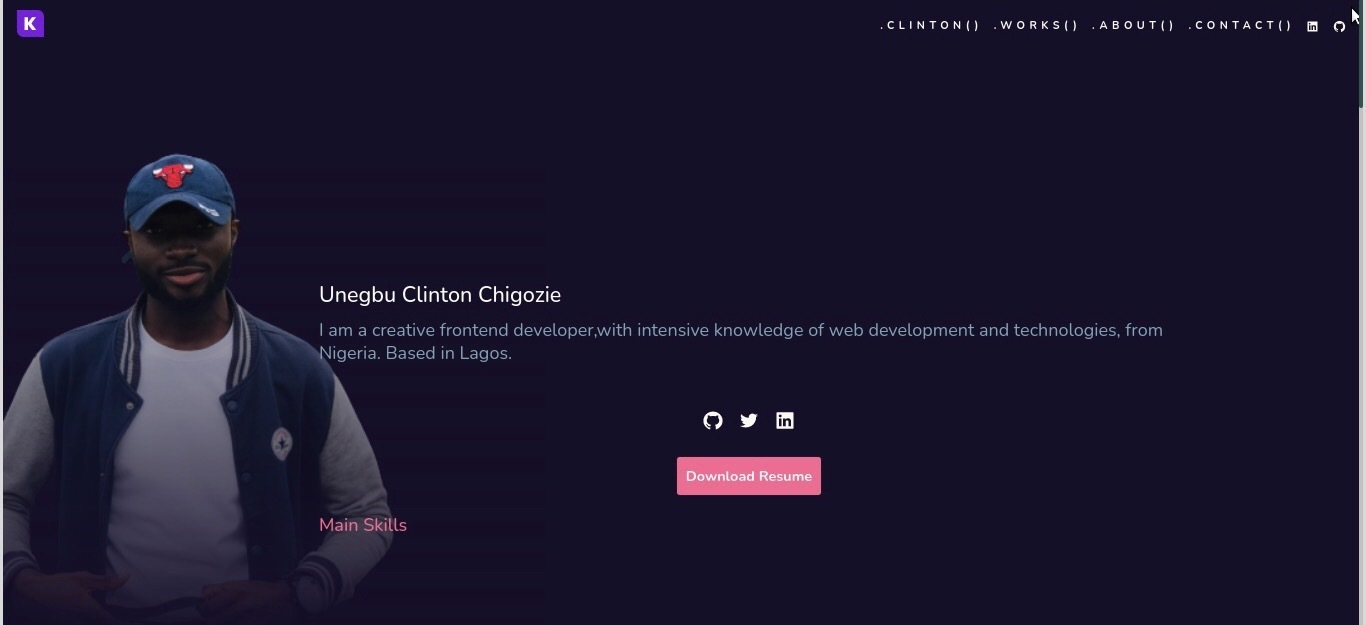
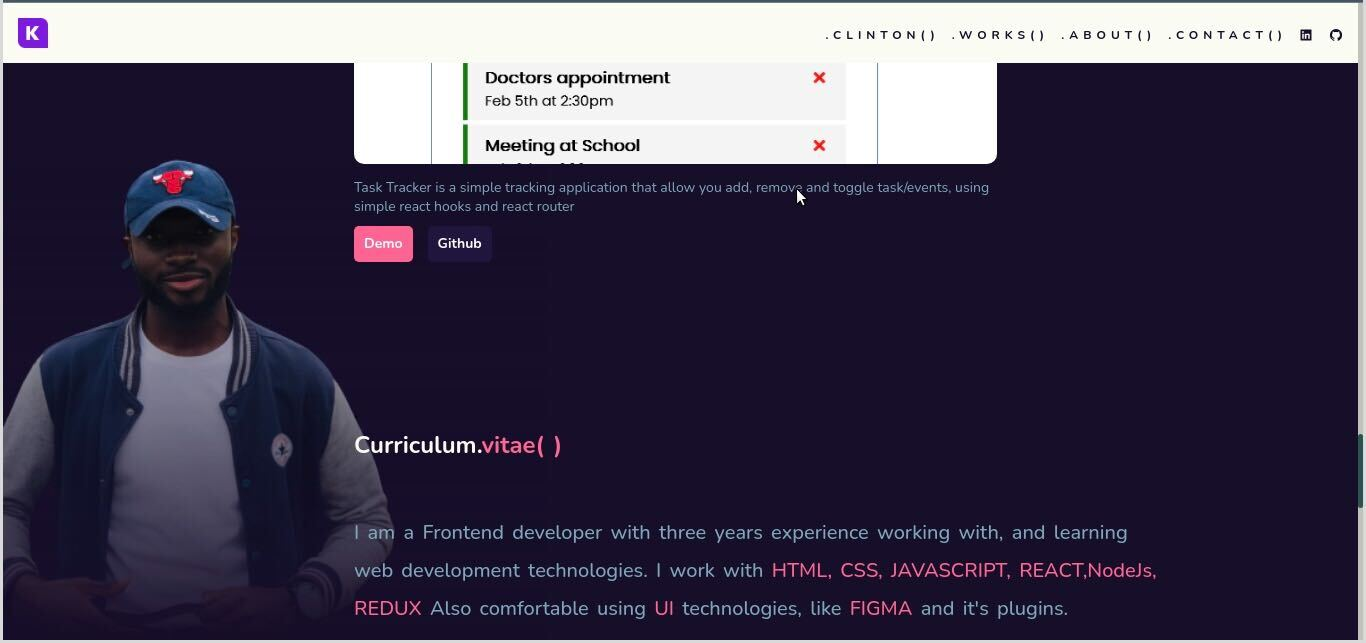
update stack and project

diff --git a/src/components/pages/Work/index.jsx b/src/components/pages/Work/index.jsx
@@ -2,13 +2,11 @@ import React from 'react';
 import styled from 'styled-components';
 import { COLORS } from '../../../constants/colors';
 import { FONTSIZES, FONTWEIGHTS } from '../../../constants/fonts';
+import agile from '../../../img/agile.jpg';
 import movie from '../../../img/movie.jpg';
 import myPage from '../../../img/myPage.jpg';
-import project from '../../../img/project.png';
-
 import Task from '../../../img/Task.png';
 import Button from '../../atoms/Button';
-
 function WorkPage() {
   const works = [
     {
@@ -19,18 +17,11 @@ function WorkPage() {
       img: movie,
     },
     {
-      name: 'My WebPage',
-      desc: 'This is a simple functional react application that tells you about my work history,project and experience. ',
-      netlifyHref: 'https://movieboomz.netlify.app/',
-      githubHref: 'https://github.com/unegbuclinton/TaskTracker',
-      img: myPage,
-    },
-    {
-      name: 'Smart-Banking',
-      desc: 'SmartBanking is a static web application built using react and styled component',
-      netlifyHref: 'https://smartbank.netlify.app/',
-      githubHref: 'https://github.com/unegbuclinton/Web-communication',
-      img: project,
+      name: 'Project Managemement',
+      desc: 'This is a WORK IN PROGRESS Application for project management which would enable you add task and move it to it status. working for only mobile now ',
+      netlifyHref: 'https://aggile.netlify.app/',
+      githubHref: 'https://github.com/unegbuclinton/projectmanagement',
+      img: agile,
     },
     {
       name: 'Task Tracker',
@@ -38,6 +29,13 @@ function WorkPage() {
       netlifyHref: 'https://trackt.netlify.app/',
       githubHref: 'https://github.com/unegbuclinton/TaskTracker',
       img: Task,
+    },
+    {
+      name: 'My WebPage',
+      desc: 'This is a simple functional react application that tells you about my work history,project and experience. ',
+      netlifyHref: 'https://clintonunegbu.netlify.app/',
+      githubHref: 'https://github.com/unegbuclinton/myWebpage',
+      img: myPage,
     },
   ];
   return (
@@ -97,7 +95,7 @@ const WorkWrapper = styled.section`
 
   .work-item {
     width: 100%;
-    margin-top: 2rem;
+    margin: 3.5rem;
     padding: 1.5;
 
     .img {
@@ -139,7 +137,7 @@ const WorkWrapper = styled.section`
   }
 
   @media only screen and (min-width: 768px) {
-    margin: 15rem 20rem 0 calc(35rem + 1px);
+    margin: 11rem 20rem 0 calc(35rem + 1px);
     padding: 0rem 0 0;
   }
 `;
@@ -155,13 +153,13 @@ const WorkItemContainer = styled.div`
     .work-item {
       .img {
         width: 80%;
-        height: 50rem;
+        height: 30rem;
         background-position: center;
-        background-size: cover;
+        transition: all 0.3s ease-in-out;
+        object-fit: cover;
         border-radius: 1rem;
 
         &:hover {
-          transition: transform 0.3s ease-in-out;
           transform: scale(0.9);
         }
       }

diff --git a/src/components/pages/Home/index.jsx b/src/components/pages/Home/index.jsx
@@ -103,12 +103,13 @@ function HomePage() {
           <div data-aos="fade-left" className="home-details">
             <p className="about-content__text">HTML /3 </p>
             <p className="about-content__text">CSS /3 </p>
-            <p className="about-content__text">JAVASCRIPT /1+ </p>
-            <p className="about-content__text"> REACT /1+ </p>
-            <p className="about-content__text"> REDUX-TOOLKIT /1+ </p>
-            <p className="about-content__text"> STYLED-COMPONENT /1+ </p>
-            <p className="about-content__text"> AXIOS /1+ </p>
-            <p className="about-content__text"> AXIOS INTERCEPTORS /1+ </p>
+            <p className="about-content__text">JAVASCRIPT /3+ </p>
+            <p className="about-content__text">NODE JS/1+</p>
+            <p className="about-content__text"> REACT /2+ </p>
+            <p className="about-content__text"> REDUX-TOOLKIT /2+ </p>
+            <p className="about-content__text"> STYLED-COMPONENT /2+ </p>
+            <p className="about-content__text">GIT/2+</p>
+            <p className="about-content__text"> Tailwind CSS /1+ </p>
             <p className="about-content__text"> FIGMA /1+ </p>
           </div>
 
@@ -133,6 +134,7 @@ function HomePage() {
             Also Busy With
           </h1>
           <div className="home-details">
+            <p className="about-content__text"> Solving Code Challenges</p>
             <p className="about-content__text"> Playing Chess</p>
             <p className="about-content__text">Watching Movies</p>
             <p className="about-content__text">Video games</p>

diff --git a/src/components/pages/About/index.jsx b/src/components/pages/About/index.jsx
@@ -19,22 +19,22 @@ function AboutPage() {
             Curriculum.<span>vitae( )</span>
           </div>
           <p data-aos="fade-down">
-            I am a Frontend developer with two years experience working with,
+            I am a Frontend developer with three years experience working with,
             and learning web development technologies. I work with
-            <span> HTML, CSS, JAVASCRIPT, REACT, REDUX </span> Also comfortable
-            using <span>UI</span> technologies, like <span> FIGMA</span> and
-            it's plugins.
+            <span> HTML, CSS, JAVASCRIPT, REACT,NodeJs, REDUX </span> Also
+            comfortable using <span>UI</span> technologies, like{' '}
+            <span> FIGMA</span> and it's plugins.
           </p>
         </HomeIntro>
         <div data-aos="fade-down" className="active">
-          Active (2020-2022)
+          Active (2019-2022)
         </div>
         <HomeIntro>
           <p>
             Joined Zuri internship in 2021 where I learnt new web technologies,
-            <span> React, styled-components, redux toolkit </span>etc. I also
-            interned at curacel as a marketinng intern in 2020. This is me.
-            <span>( )</span>
+            brainstormed and collaborate with other solid developers to solve
+            problems and work on interesting projects. I also interned at
+            curacel as a growth engineer in 2020. This is me.
           </p>
         </HomeIntro>
       </HomeWrapper>
